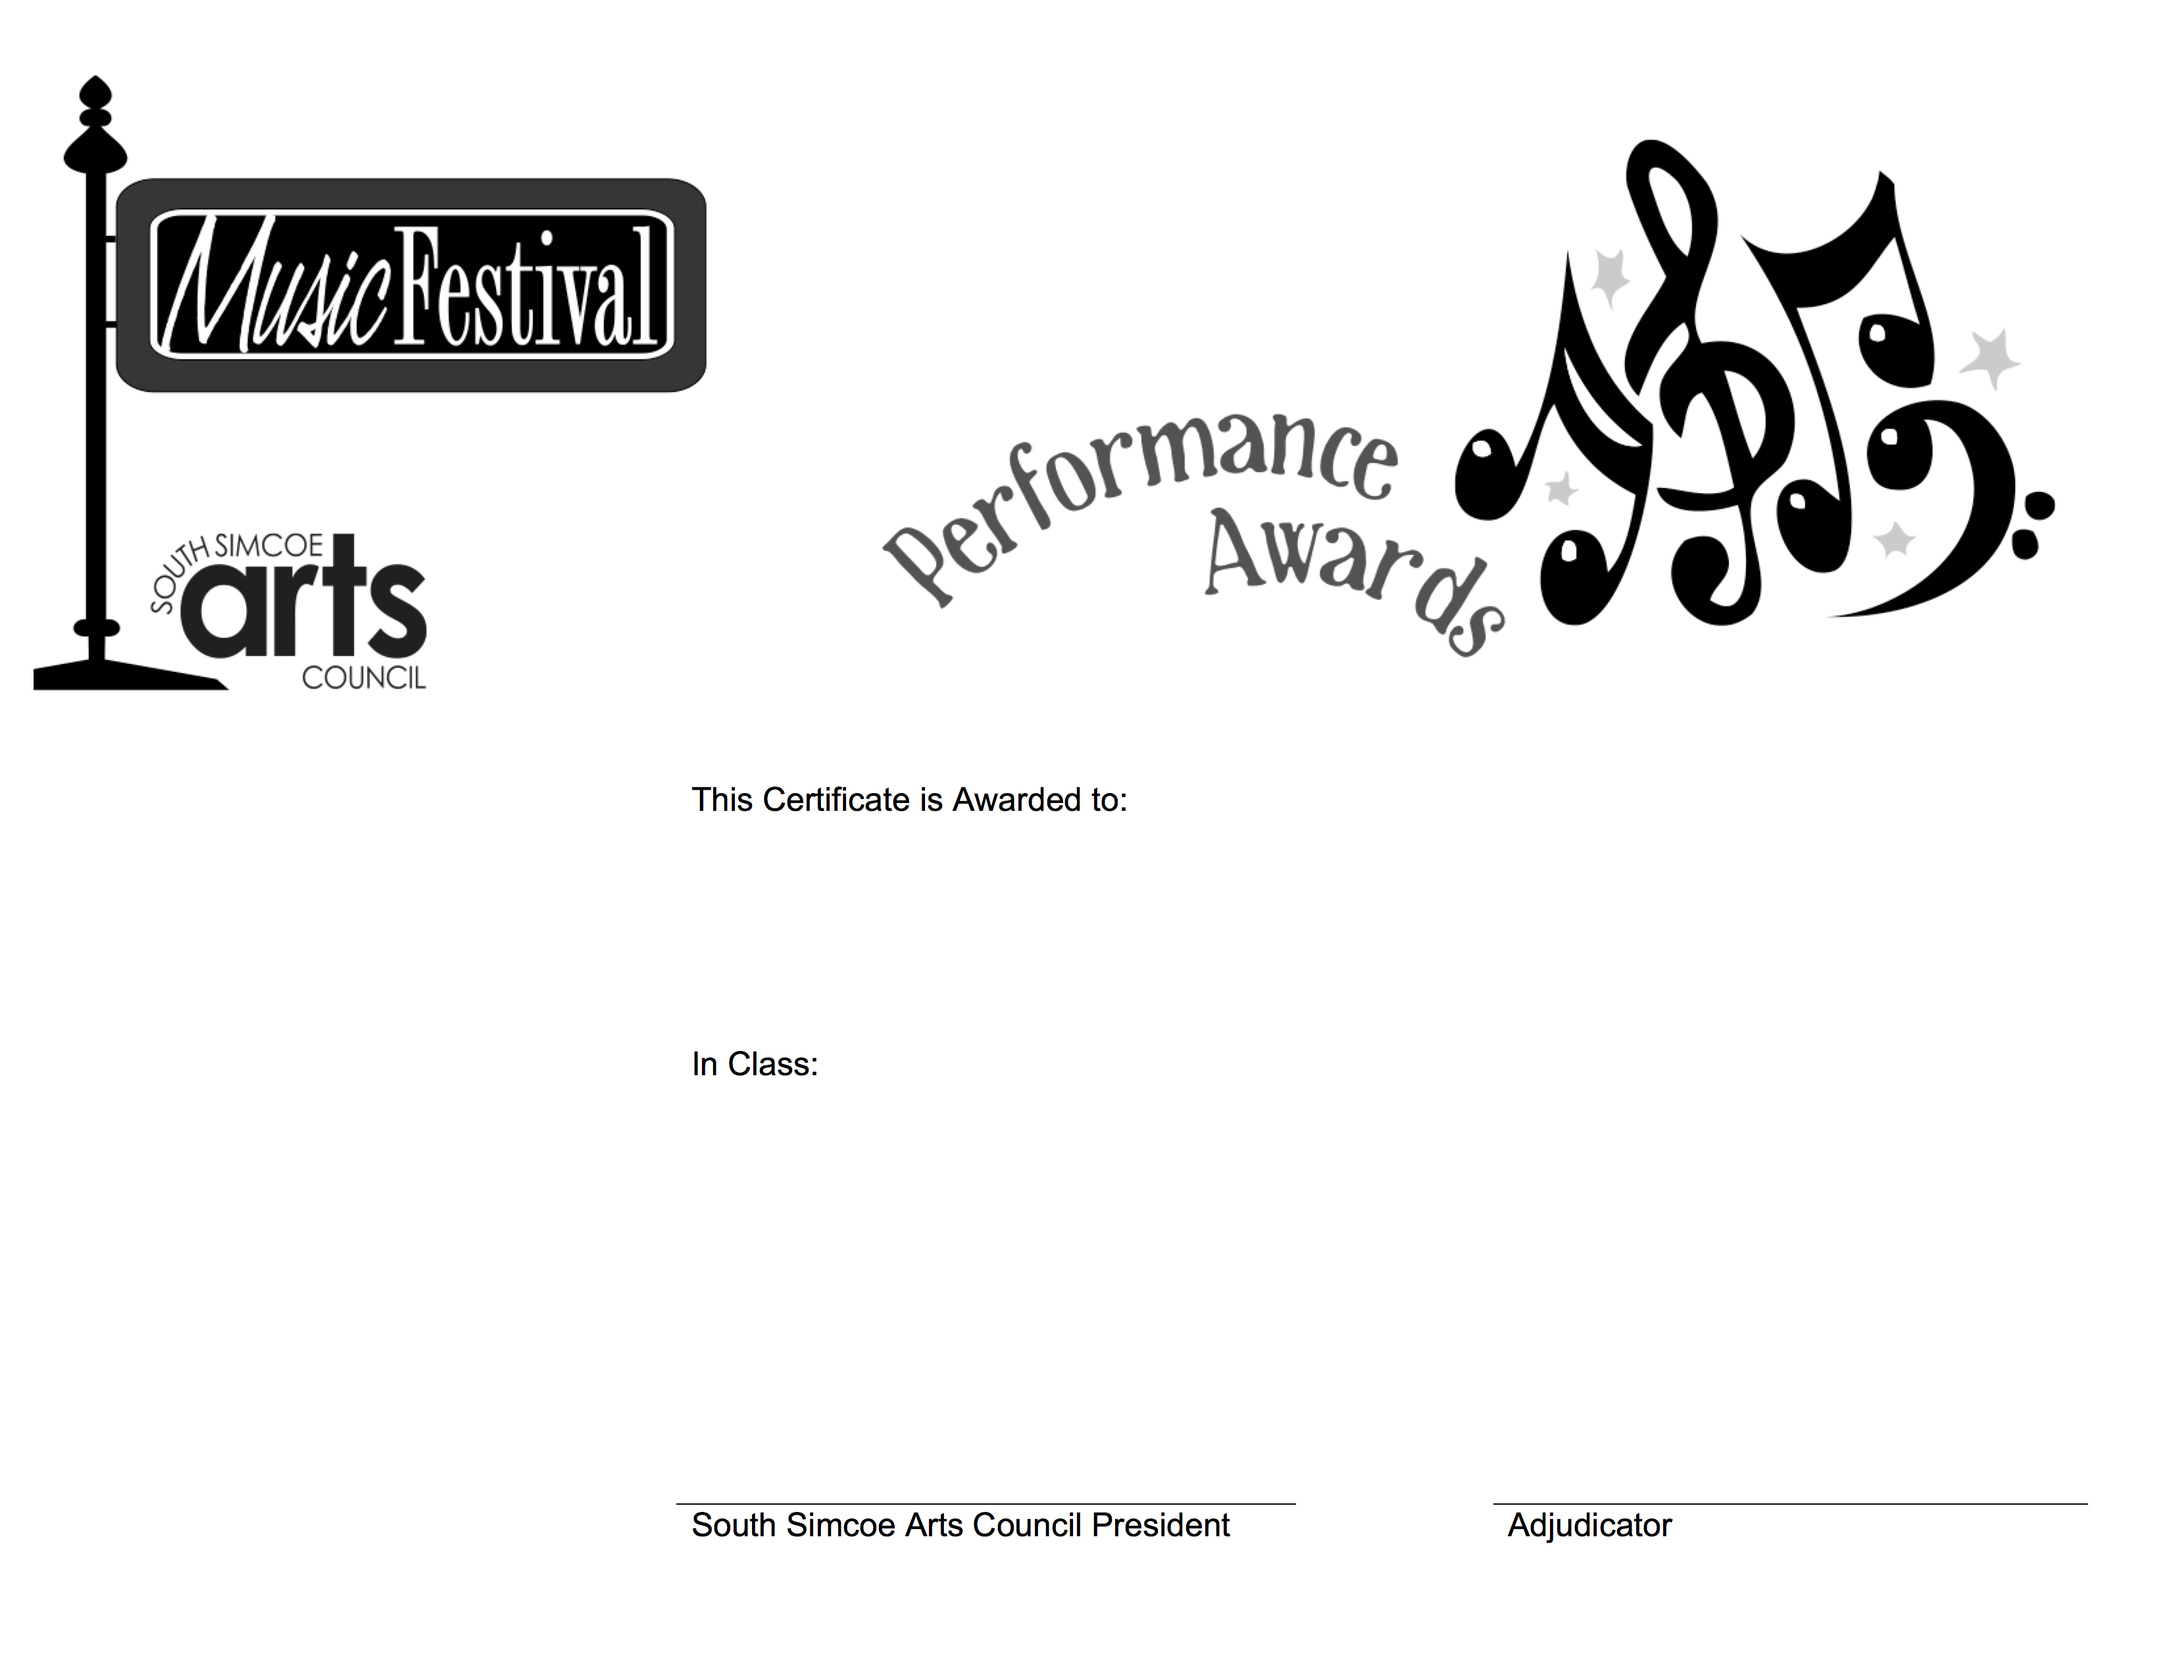
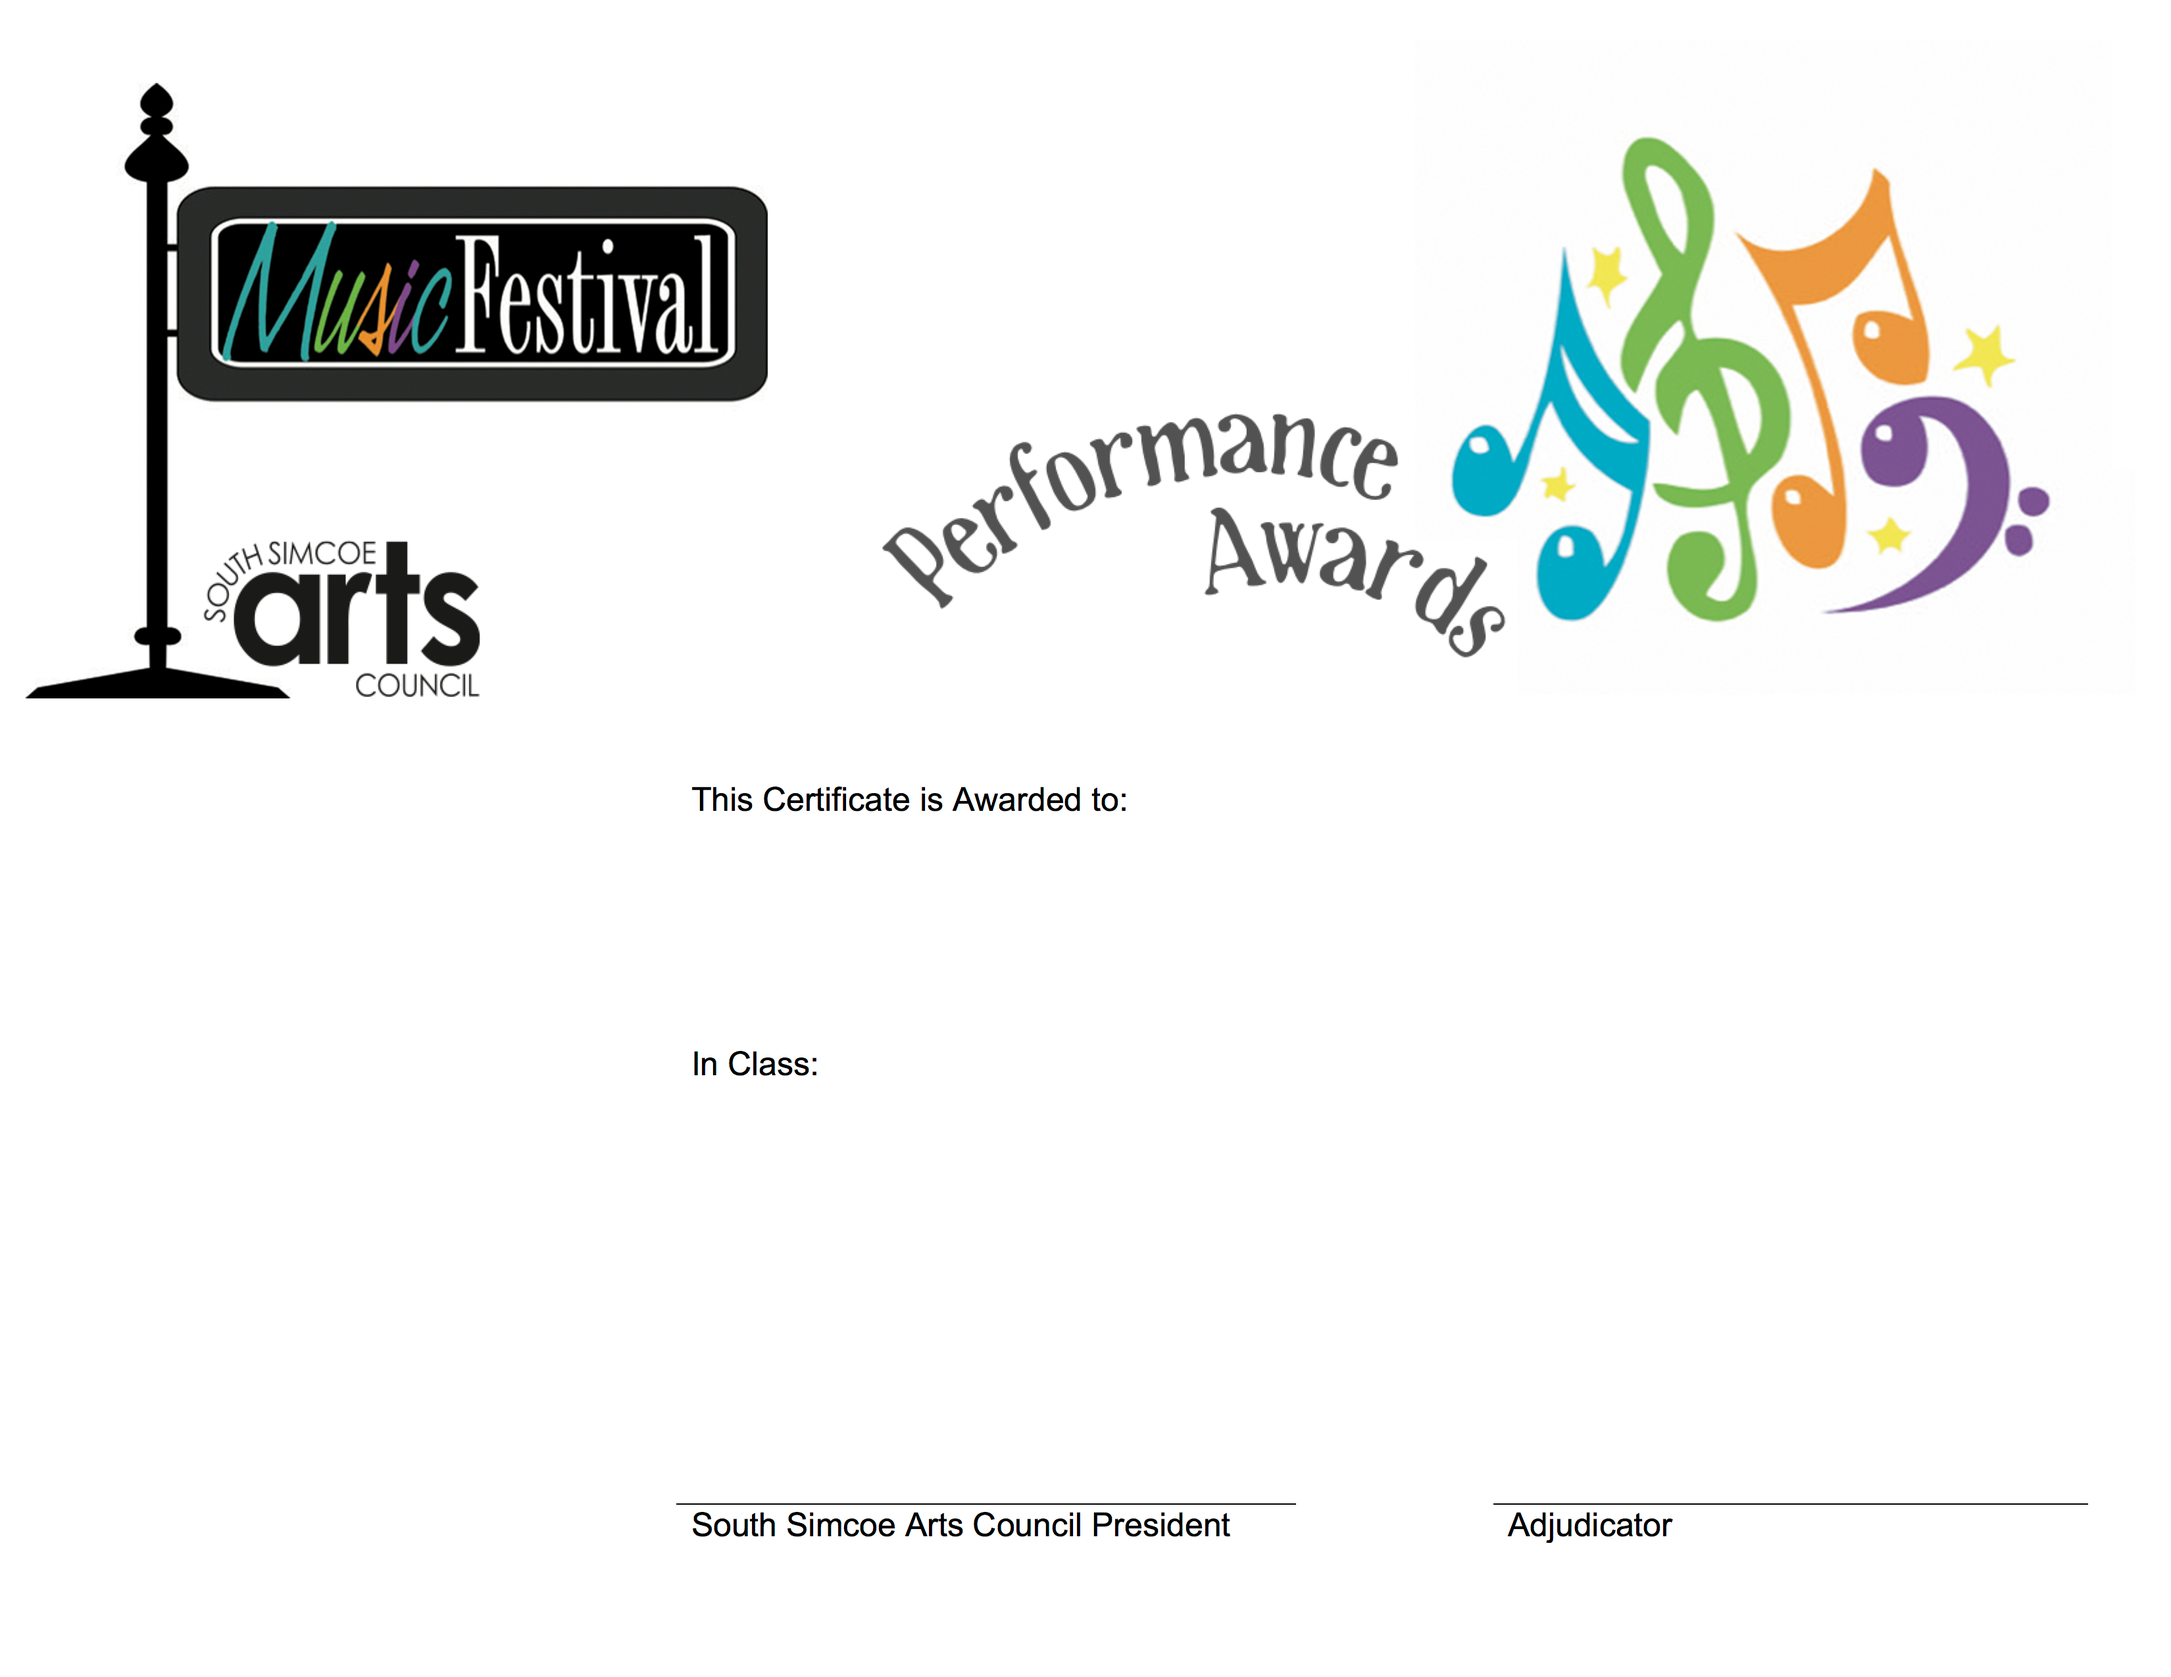
Updated certificate to colour and added section name to adjudicator name

Changed region(s): [[0.0, 0.031, 0.3745, 0.4337], [0.6555, 0.062, 0.9676, 0.3718]]

diff --git a/web/processRequest.php b/web/processRequest.php
@@ -605,15 +605,26 @@ function ciniki_musicfestivals_web_processRequest(&$ciniki, $settings, $tnid, $a
     //
     elseif( $display == 'adjudicators' ) {
         $page['breadcrumbs'][] = array('name'=>'Adjudicators', 'url'=>$args['base_url'] . '/adjudicators');
-        $strsql = "SELECT ciniki_musicfestival_adjudicators.id, "
-            . "ciniki_musicfestival_adjudicators.customer_id, "
-            . "ciniki_customers.sort_name "
-            . "FROM ciniki_musicfestival_adjudicators, ciniki_customers "
-            . "WHERE ciniki_musicfestival_adjudicators.festival_id = '" . ciniki_core_dbQuote($ciniki, $festival_id) . "' "
-            . "AND ciniki_musicfestival_adjudicators.tnid = '" . ciniki_core_dbQuote($ciniki, $tnid) . "' "
-            . "AND ciniki_musicfestival_adjudicators.customer_id = ciniki_customers.id "
-            . "AND ciniki_customers.tnid = '" . ciniki_core_dbQuote($ciniki, $tnid) . "' "
-            . "ORDER BY ciniki_customers.sort_name "
+        $strsql = "SELECT adjudicators.id, "
+            . "adjudicators.customer_id, "
+            . "customers.sort_name, "
+            . "sections.name "
+            . "FROM ciniki_musicfestival_adjudicators AS adjudicators "
+            . "INNER JOIN ciniki_customers AS customers ON ("
+                . "adjudicators.customer_id = customers.id "
+                . "AND customers.tnid = '" . ciniki_core_dbQuote($ciniki, $tnid) . "' "
+                . ") "
+            . "LEFT JOIN ciniki_musicfestival_schedule_sections AS sections ON ("
+                . "("
+                    . "adjudicators.id = sections.adjudicator1_id "
+                    . "OR adjudicators.id = sections.adjudicator2_id "
+                    . "OR adjudicators.id = sections.adjudicator3_id "
+                    . ") "
+                . "AND sections.tnid = '" . ciniki_core_dbQuote($ciniki, $tnid) . "' "
+                . ") "
+            . "WHERE adjudicators.festival_id = '" . ciniki_core_dbQuote($ciniki, $festival_id) . "' "
+            . "AND adjudicators.tnid = '" . ciniki_core_dbQuote($ciniki, $tnid) . "' "
+            . "ORDER BY customers.sort_name "
             . "";
         $rc = ciniki_core_dbHashQuery($ciniki, $strsql, 'ciniki.musicfestivals', 'a');
         if( $rc['stat'] != 'ok' ) {
@@ -627,7 +638,8 @@ function ciniki_musicfestivals_web_processRequest(&$ciniki, $settings, $tnid, $a
                     return $rc;
                 }
                 $customer = $rc['customer'];
-                $page['blocks'][] = array('type'=>'content', 'section'=>'section', 'title'=>$customer['display_name'], 
+                $page['blocks'][] = array('type'=>'content', 'section'=>'section', 'title'=>$customer['display_name']
+                    . (isset($row['name']) && $row['name'] != '' ? ' - ' . $row['name'] : ''), 
                     'aside_image_id'=>(isset($customer['image_id']) && $customer['image_id'] > 0  ? $customer['image_id'] : 0),
                     'html'=>$customer['processed_description']);
 //                if( isset($customer['image_id']) && $customer['image_id'] > 0 ) {
